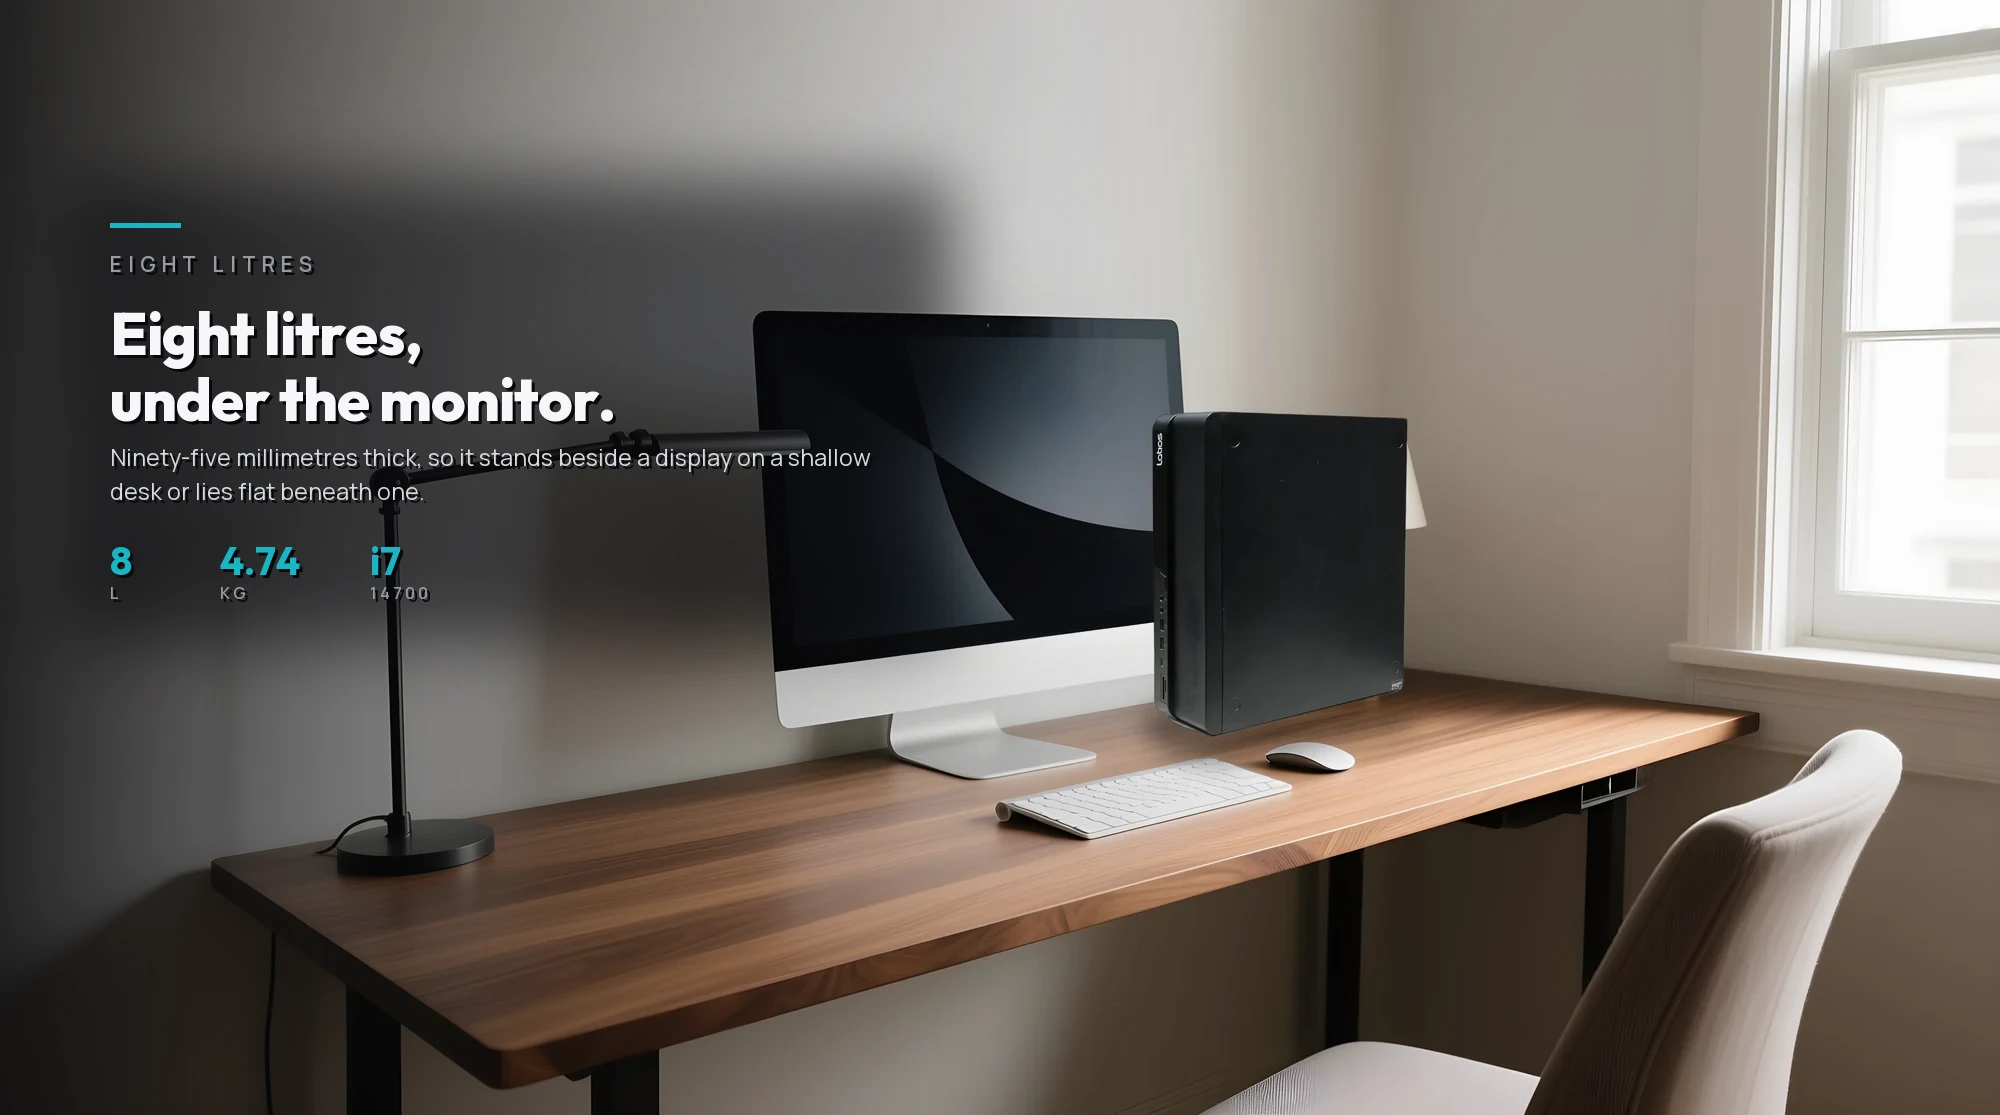
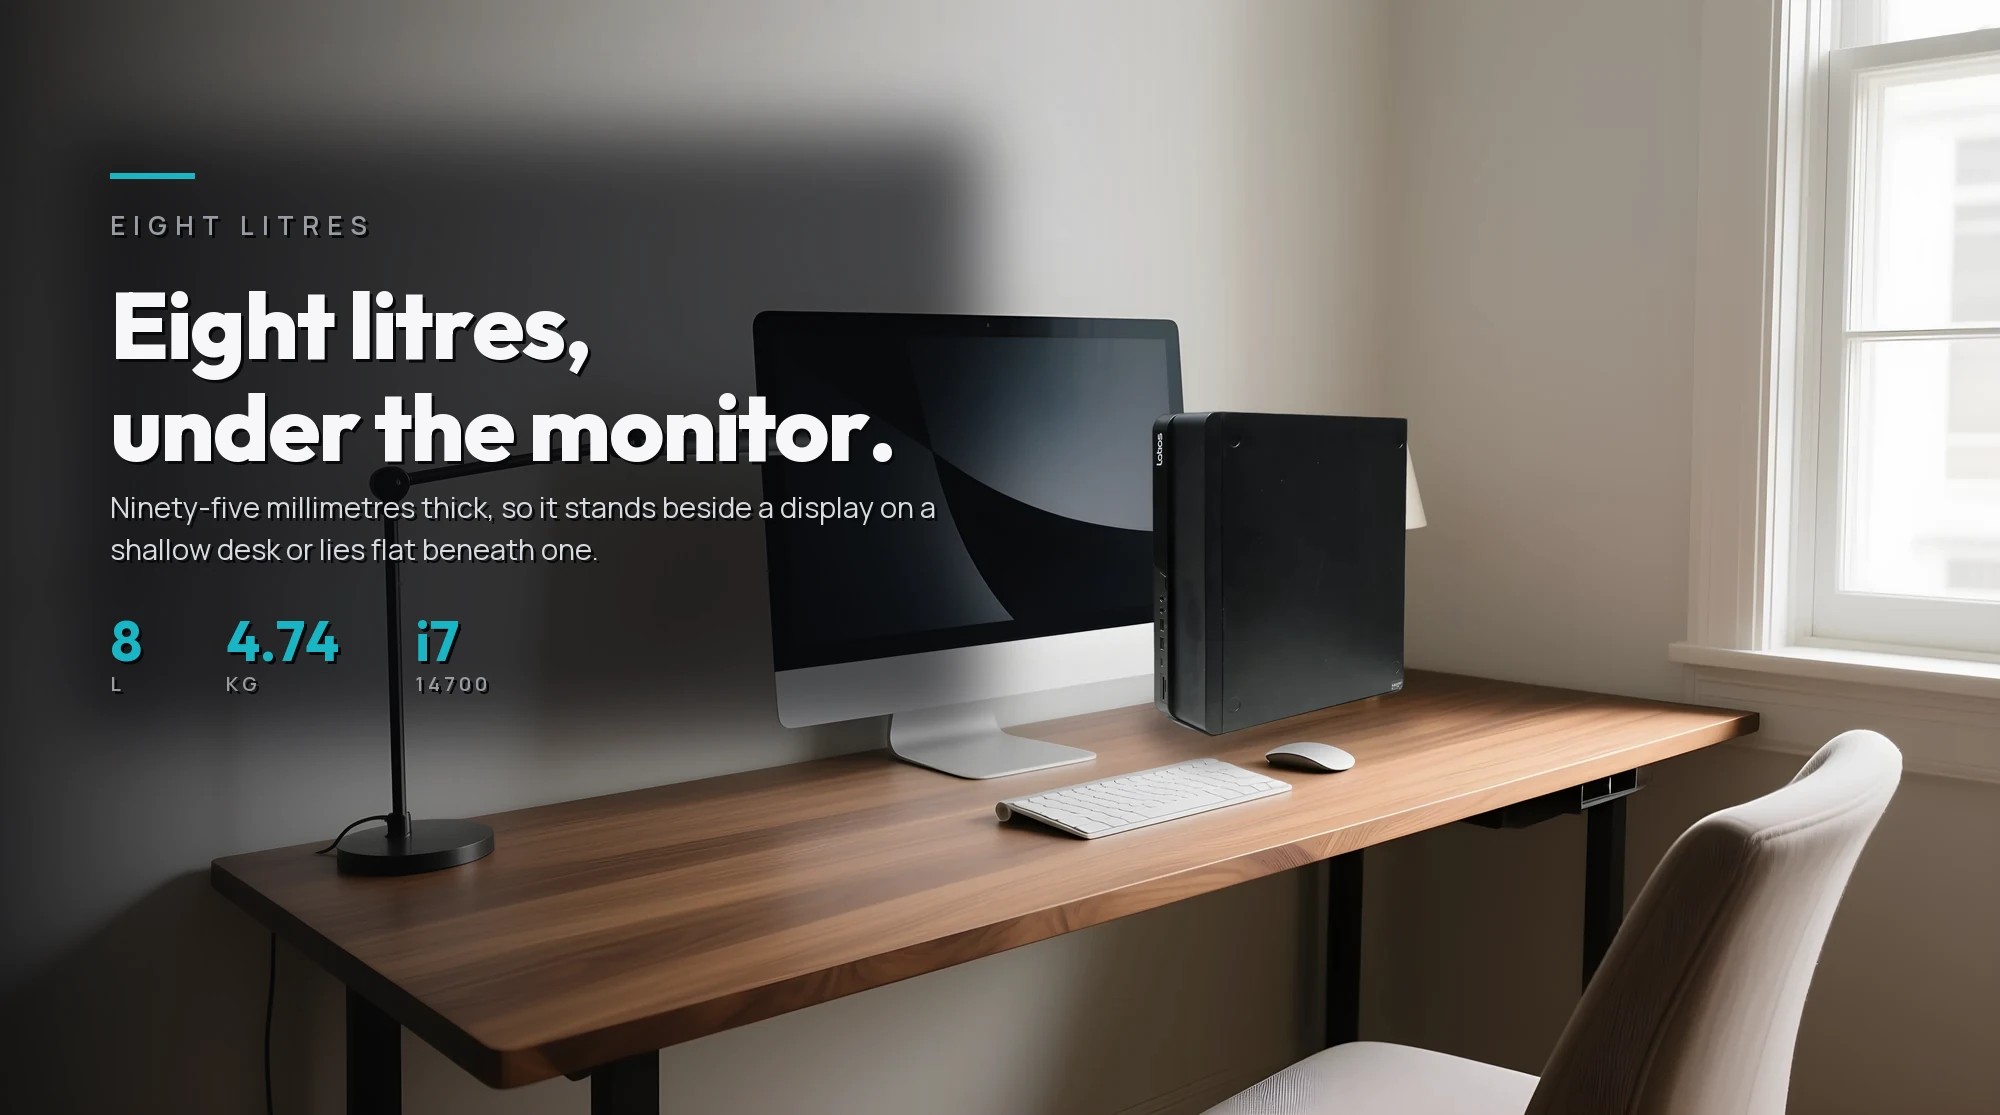
Give the scene posters type that commands the frame
The first pass set the headline at a fixed 60px on a 2000px canvas. The
page displays these bands at 918px, so it arrived at 27px -- legible, but
nothing like the reference posters, where the type IS the picture. Every
size is now a fraction of the canvas width, so the proportion holds
whatever the scene is rendered at, and the headline lands at 94/2000.

Two things that only showed up once the type was big enough to matter,
both found by measuring rather than by looking:

  * The panel under the block had one fixed opacity for six rooms. Under
    the type these scenes run from a mean luminance of 86 (mt-office, a
    dim corner) to 157 (sff-desk, a white wall beside a window), so a
    value tuned for the dark end left the supporting line on the bright
    rooms at almost no contrast. The fill is now solved for: measure the
    p85 of what the type will actually land on, after the side ramp, and
    darken to a fixed target.

  * The panel was sized to the wrap column. The body obeys that column;
    the headline is hand-broken and does not. mt-control's "deployed
    everywhere." is 980px against a 920px column, so its last word sat
    off the end of the panel on bare glass and ran past the page margin
    besides. The block is now measured across every line it will draw,
    and a right-hand block re-anchors so a wide headline grows into the
    frame instead of off it.

The type is still set, never generated: every character is PIL-drawn from
[…]

Changed region(s): [[0.031, 0.0915, 0.527, 0.7013]]

diff --git a/tools/image-processing/make_scene_bands.py b/tools/image-processing/make_scene_bands.py
@@ -118,13 +118,20 @@ def band(name, side, accent, kicker, head, body, figs):
     img = side_scrim(img, side, strength=210, power=3.0)
     d = ImageDraw.Draw(img)
 
-    col = round(W * 0.40)                      # the type column
+    # Sizes are FRACTIONS of the canvas, so the type holds its proportion
+    # whatever the scene is rendered at. The first pass used fixed points
+    # and a 60px headline on a 2000px canvas came out at 27px on the page:
+    # readable, but not something that commands the frame the way the
+    # reference posters do.
+    u = W / 2000.0
+    col = round(W * 0.46)                      # the type column
     pad = round(W * 0.055)
     x = pad if side == "left" else W - col - pad
-    y0 = round(H * 0.20)
+    y0 = round(H * 0.155)
 
-    f_head = font("Outfit", 60, 800)
-    f_body = font("Manrope", 23, 400)
+    f_head = font("Outfit", round(94 * u), 800)
+    f_body = font("Manrope", round(29 * u), 400)
+    f_fig = font("Outfit", round(56 * u), 700)
     head_lines = head.splitlines()
     body_lines = wrap(d, body, f_body, col)
 
@@ -134,43 +141,90 @@ def band(name, side, accent, kicker, head, body, figs):
     # line disappeared into it. A ramp strong enough to fix that darkened the
     # whole photograph, which was the complaint in the first place. A local
     # panel fixes legibility where it is needed and leaves the room alone.
-    block_h = 26 + 46 + len(head_lines) * 66 + 14 + len(body_lines) * 34 + 26 + 62
+    lh_head, lh_body = round(102 * u), round(42 * u)
+    block_h = (round(34 * u) + round(58 * u) + len(head_lines) * lh_head
+               + round(18 * u) + len(body_lines) * lh_body + round(34 * u)
+               + round(86 * u))
+    # The panel is sized to the CONTENT, not to the column. `col` is the wrap
+    # measure for the body; the headline is hand-broken and obeys no such
+    # limit, and mt-control's "deployed everywhere." is 980px against a 920px
+    # column -- so its last word sat off the end of the panel, on bare glass,
+    # and ran past the page margin as well. Measure every line that will be
+    # drawn and let the block be as wide as it needs to be.
+    fig_w = sum(max(d.textlength(v, font=f_fig), 40 * u) + round(W * 0.038)
+                for v, _ in figs) - round(W * 0.038)
+    content_w = max([d.textlength(l, font=f_head) for l in head_lines]
+                    + [d.textlength(l, font=f_body) for l in body_lines]
+                    + [fig_w, col * 0.72])
+    content_w = min(content_w, W - 2 * pad)
+    # Re-anchor a right-hand block so a wide headline grows into the frame
+    # rather than off the edge of it.
+    if side == "right":
+        x = W - pad - round(content_w)
+
     m = round(W * 0.022)
+
+    # And the panel's opacity is MEASURED, not fixed. A single value cannot
+    # serve six rooms: under the type block these scenes run from a mean
+    # luminance of 86 (mt-office, a dim corner) to 157 (sff-desk, a white wall
+    # beside a window). A fill tuned for the dark end let the supporting line on
+    # the two bright rooms sit at barely any contrast; one tuned for the bright
+    # end would print a black slab across the dark ones.
+    #
+    # So measure what the type will actually land on -- after the side ramp,
+    # which itself decays fast and leaves the far end of the column almost
+    # untouched -- and solve for the fill that brings it down to TARGET:
+    #
+    #     out = L*(1-a) + 9*a   =>   a = (L - TARGET) / (L - 9)
+    #
+    # against p85 rather than the mean, so a bright streak through the block
+    # (a lamp arm, a window reveal) is covered rather than averaged away.
+    TARGET = 58
+    reg = img.crop((max(0, x - m), max(0, y0 - m),
+                    min(W, x + round(content_w) + m),
+                    min(H, y0 + block_h + m))).convert("L")
+    lum = sorted(reg.getdata())[int(len(reg.getdata()) * 0.85)]
+    a = 0.0 if lum <= TARGET else (lum - TARGET) / max(1.0, lum - 9.0)
+    fill = int(round(min(0.80, max(0.42, a)) * 255))
+
     panel = Image.new("L", img.size, 0)
     ImageDraw.Draw(panel).rounded_rectangle(
-        [x - m, y0 - m, x + col + m, y0 + block_h + m],
-        radius=round(W * 0.012), fill=150)
+        [x - m, y0 - m, x + round(content_w) + m, y0 + block_h + m],
+        radius=round(W * 0.012), fill=fill)
     panel = panel.filter(ImageFilter.GaussianBlur(round(W * 0.016)))
     img = Image.composite(Image.new("RGB", img.size, (8, 9, 12)), img, panel)
     d = ImageDraw.Draw(img)
 
     y = y0
-    d.rectangle([x, y, x + round(W * 0.035), y + 4], fill=accent)
-    y += 26
-    text(d, (x, y), kicker.upper(), font("Manrope", 21, 600), MUTED, tracking=6)
-    y += 46
+    d.rectangle([x, y, x + round(W * 0.042), y + round(5 * u)], fill=accent)
+    y += round(34 * u)
+    text(d, (x, y), kicker.upper(), font("Manrope", round(26 * u), 600), MUTED,
+         tracking=round(8 * u))
+    y += round(58 * u)
 
     for line in head_lines:
-        text(d, (x, y), line, f_head, INK, tracking=-1)
-        y += 66
-    y += 14
+        text(d, (x, y), line, f_head, INK, tracking=round(-2 * u))
+        y += lh_head
+    y += round(18 * u)
 
     for line in body_lines:
         text(d, (x, y), line, f_body, BODY)
-        y += 34
-    y += 26
+        y += lh_body
+    y += round(34 * u)
 
     # The figures, in a row. Value in the accent, unit under it -- the same
     # reading order the stat rows on the page itself use.
     fx = x
     for val, unit in figs:
-        w = text(d, (fx, y), val, font("Outfit", 40, 700), accent)
-        text(d, (fx, y + 46), unit.upper(), font("Manrope", 16, 600), MUTED, tracking=3)
-        fx += max(w, 40) + round(W * 0.035)
+        w = text(d, (fx, y), val, f_fig, accent)
+        text(d, (fx, y + round(64 * u)), unit.upper(),
+             font("Manrope", round(20 * u), 600), MUTED, tracking=round(4 * u))
+        fx += max(w, 40 * u) + round(W * 0.038)
 
     out = OUT / f"{name}-band.webp"
     img.save(out, "WEBP", quality=90, method=6)
-    print(f"  {out.name:24s} {img.size}  {out.stat().st_size // 1024:>4}KB")
+    print(f"  {out.name:24s} {img.size}  {out.stat().st_size // 1024:>4}KB"
+          f"  p85 {lum:>3} -> panel {fill}")
 
 
 if __name__ == "__main__":
